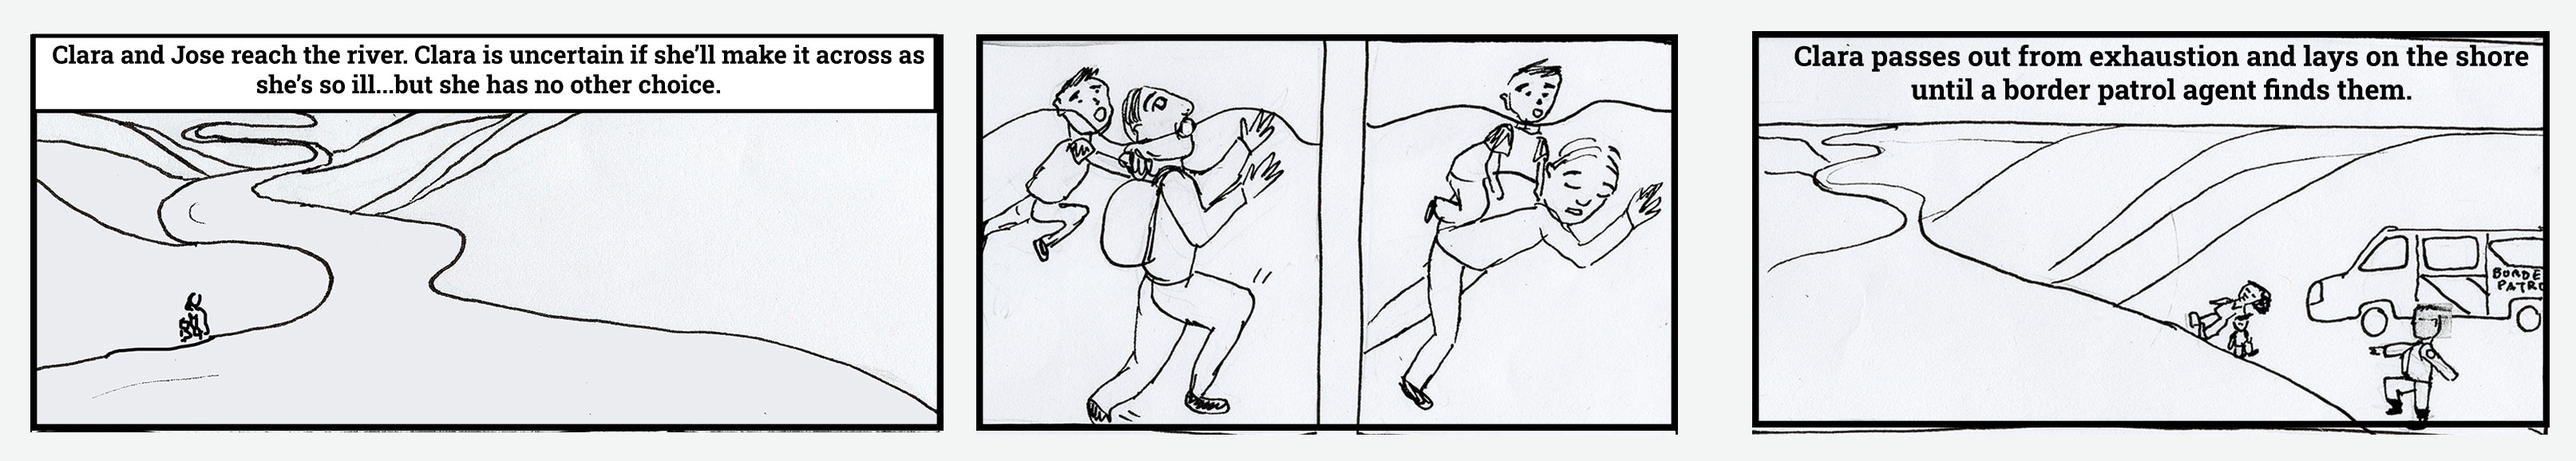
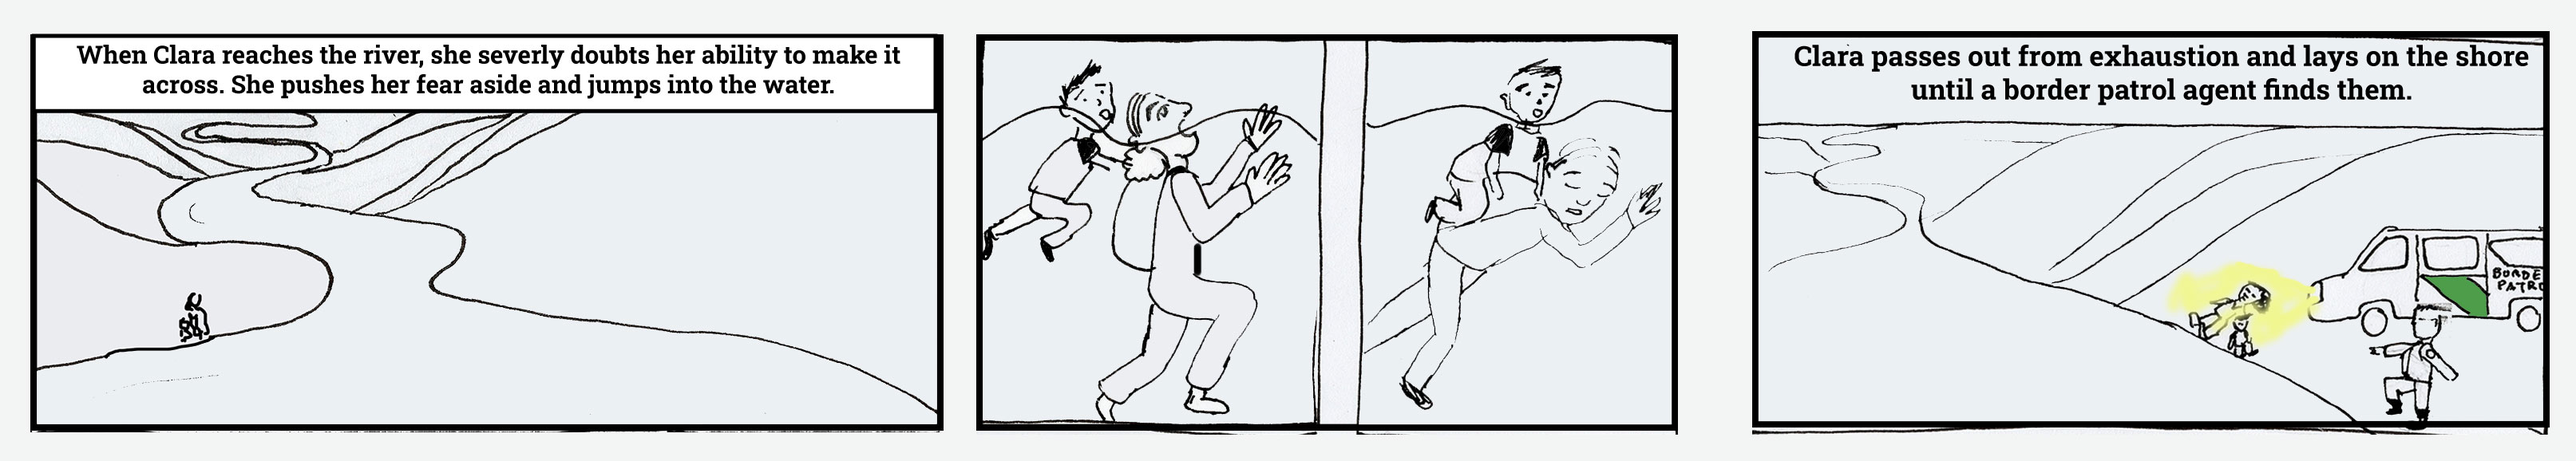
Update to Michelle

diff --git a/michelle/script.js b/michelle/script.js
@@ -15,7 +15,7 @@ var tilePadding = 10;
 var tileSize;
 var tileWrapper = 120;
 var timelineTopRatio = 0.6;
-var imageTimer = 30000;
+var imageTimer = 120000;
 
 var tileColor = "#F7F0F0";
 var tileFontColor = "#333";
@@ -55,7 +55,7 @@ function init(){
 		// Parse XML Timeline
 		parser = new DOMParser();
 		// xmlTimeline = parser.parseFromString(event.target.result,"text/xml");
-		let northbound = "<timeline><tile><id>0</id><type>static</type><name>Honduras</name><videos><video><id>112</id><path>Introduction.jpg</path></video></videos></tile><tile><id>2</id><type>static</type><name>Leave</name><videos><video><id>90</id><path>Leave-min.jpg</path></video></videos></tile><tile><id>3</id><type>choice</type><name>Choice 1</name><choices><choice><name>Caravan</name><iconPath>caravan.png</iconPath><choiceID>3</choiceID><choiceChosen>4</choiceChosen><videos><video><id>125</id><path>Choice1--Caravan.jpg</path></video></videos></choice><choice><name>Alone</name><iconPath>alone-black-version.jpg</iconPath><choiceID>3</choiceID><choiceChosen>5</choiceChosen><videos><video><id>124</id><path>Choice1-Alone.jpg</path></video></videos></choice></choices></tile><tile><id>6</id><type>static</type><name>Travel</name><videos><video><id>91</id><path>Travel-(alone)-min.jpg</path><condition><choiceID>3</choiceID><choiceChosen>5</choiceChosen></condition></video><video><id>127</id><path>Travel(caravan)-min.jpg</path><condition><choiceID>3</choiceID><choiceChosen>4</choiceChosen></condition></video></videos></tile><tile><id>7</id><type>static</type><name>Ill</name><videos><video><id>92</id><path>Sick-(alone)-min.jpg</path><condition><choiceID>3</choiceID><choiceChosen>5</choiceChosen></condition></video><video><id>93</id><path>Sick-(caravan)-min.jpg</path><condition><choiceID>3</choiceID><choiceChosen>4</choiceChosen></condition></video></videos></tile><tile><id>8</id><type>choice</type><name>Choice  2</name><choices><choice><name>Continue</name><iconPath>continue.png</iconPath><choiceID>8</choiceID><choiceChosen>9</choiceChosen><videos><video><id>27</id><path>Choice2--Continue-(caravan)jpg-min.jpg</path></video></videos></choice><choice><name>Rest</name><iconPath>rest.png</iconPath><choiceID>8</choiceID><choiceChosen>10</choiceChosen><videos><video><id>28</id><path>Choice2-Rest(alone(-min.jpg</path></video></videos></choice></choices></tile><tile><id>11</id><type>static</type><name>The Plan</name><videos><video><id>94</id><path>The-Plan-(alone-continue)-min.jpg</path><condition><choiceID>3</choiceID><choiceChosen>5</choiceChosen></condition><condition><choiceID>8</choiceID><choiceChosen>9</choiceChosen></condition></video><video><id>95</id><path>The-Plan(alone-rest)-min.jpg</path><condition><choiceID>3</choiceID><choiceChosen>5</choiceChosen></condition><condition><choiceID>8</choiceID><choiceChosen>10</choiceChosen></condition></video><video><id>96</id><path>The-Plan-(caravan-continue)-min.jpg</path><condition><choiceID>3</choiceID><choiceChosen>4</choiceChosen></condition><condition><choiceID>8</choiceID><choiceChosen>9</choiceChosen></condition></video><video><id>97</id><path>The-Plan-(caravan-rest)-min.jpg</path><condition><choiceID>3</choiceID><choiceChosen>4</choiceChosen></condition><condition><choiceID>8</choiceID><choiceChosen>10</choiceChosen></condition></video></videos></tile><tile><id>16</id><type>static</type><name>River</name><videos><video><id>98</id><path>River(alone-continue)-min.jpg</path><condition><choiceID>3</choiceID><choiceChosen>5</choiceChosen></condition><condition><choiceID>8</choiceID><choiceChosen>9</choiceChosen></condition></video><video><id>99</id><path>River-(alone-rest)-min.jpg</path><condition><choiceID>3</choiceID><choiceChosen>5</choiceChosen></condition><condition><choiceID>8</choiceID><choiceChosen>10</choiceChosen></condition></video><video><id>100</id><path>River-(caravan-continue)-min.jpg</path><condition><choiceID>3</choiceID><choiceChosen>4</choiceChosen></condition><condition><choiceID>8</choiceID><choiceChosen>9</choiceChosen></condition></video><video><id>101</id><path>River-(caravan-rest)-min.jpg</path><condition><choiceID>3</choiceID><choiceChosen>4</choiceChosen></condition><condition><choiceID>8</choiceID><choiceChosen>10</choiceChosen></condition></video></videos></tile><tile><id>18</id><type>static</type><name>Border</name><videos><video><id>123</id><path>Zero Tolerance.jpg</path><condition><choiceID>3</choiceID><choiceChosen>4</choiceChosen></condition><condition><choiceID>8</choiceID><choiceChosen>10</choiceChosen></condition></video><video><id>124</id><path>Zero Tolerance.jpg</path><condition><choiceID>3</choiceID><choiceChosen>5</choiceChosen></condition><condition><choiceID>8</choiceID><choiceChosen>10</choiceChosen></condition></video><video><id>130</id><path>sick-in-usa-min.jpg</path><condition><choiceID>3</choiceID><choiceChosen>5</choiceChosen></condition><condition><choiceID>8</choiceID><choiceChosen>9</choiceChosen></condition></video><video><id>131</id><path>See-Lights-min.jpg</path><condition><choiceID>3</choiceID><choiceChosen>4</choiceChosen></condition><condition><choiceID>8</choiceID><choiceChosen>9</choiceChosen></condition></video></videos></tile><tile><id>17</id><type>choice</type><name>Choice 3</name><choices><choice><name>Myself</name><iconPath>alone.png</iconPath><choiceID>17</choiceID><choiceChosen>19</choiceChosen><videos><video><id>128</id><path>Choice3-alone-min.jpg</path></video></videos></choice><choice><name>Others</name><iconPath>Choice-3-Group.png</iconPath><choiceID>17</choiceID><choiceChosen>20</choiceChosen><videos><video><id>129</id><path>Choice3-together-min.jpg</path></video></videos></choice></choices></tile><tile><id>21</id><type>static</type><name>Aftermath</name><videos><video><id>131</id><path>Aftermath-Ending1.png</path><condition><choiceID>3</choiceID><choiceChosen>4</choiceChosen></condition><condition><choiceID>8</choiceID><choiceChosen>9</choiceChosen></condition><condition><choiceID>17</choiceID><choiceChosen>19</choiceChosen></condition></video><video><id>132</id><path>Aftermath-Ending2.jpg</path><condition><choiceID>3</choiceID><choiceChosen>4</choiceChosen></condition><condition><choiceID>8</choiceID><choiceChosen>9</choiceChosen></condition><condition><choiceID>17</choiceID><choiceChosen>20</choiceChosen></condition></video><video><id>133</id><path>Aftermath-Ending 3 and 7.png</path><condition><choiceID>3</choiceID><choiceChosen>4</choiceChosen></condition><condition><choiceID>8</choiceID><choiceChosen>10</choiceChosen></condition><condition><choiceID>17</choiceID><choiceChosen>19</choiceChosen></condition></video><video><id>134</id><path>Aftermath-Ending 3 and 7.png</path><condition><choiceID>3</choiceID><choiceChosen>5</choiceChosen></condition><condition><choiceID>8</choiceID><choiceChosen>10</choiceChosen></condition><condition><choiceID>17</choiceID><choiceChosen>19</choiceChosen></condition></video><video><id>135</id><path>Aftermath-Ending4.jpg</path><condition><choiceID>3</choiceID><choiceChosen>4</choiceChosen></condition><condition><choiceID>8</choiceID><choiceChosen>10</choiceChosen></condition><condition><choiceID>17</choiceID><choiceChosen>20</choiceChosen></condition></video><video><id>136</id><path>Aftermath-Ending5.jpg</path><condition><choiceID>3</choiceID><choiceChosen>5</choiceChosen></condition><condition><choiceID>8</choiceID><choiceChosen>9</choiceChosen></condition><condition><choiceID>17</choiceID><choiceChosen>19</choiceChosen></condition></video><video><id>137</id><path>Aftermath-Ending6.jpg</path><condition><choiceID>3</choiceID><choiceChosen>5</choiceChosen></condition><condition><choiceID>8</choiceID><choiceChosen>9</choiceChosen></condition><condition><choiceID>17</choiceID><choiceChosen>20</choiceChosen></condition></video><video><id>138</id><path>Aftermath-Ending8.jpg</path><condition><choiceID>3</choiceID><choiceChosen>5</choiceChosen></condition><condition><choiceID>8</choiceID><choiceChosen>10</choiceChosen></condition><condition><choiceID>17</choiceID><choiceChosen>20</choiceChosen></condition></video></videos></tile><tile><id>24</id><type>static</type><name>Ending</name><videos><video><id>113</id><path>Ending-1-min.jpg</path><condition><choiceID>3</choiceID><choiceChosen>4</choiceChosen></condition><condition><choiceID>8</choiceID><choiceChosen>9</choiceChosen></condition><condition><choiceID>17</choiceID><choiceChosen>19</choiceChosen></condition></video><video><id>114</id><path>Ending2-min.jpg</path><condition><choiceID>3</choiceID><choiceChosen>4</choiceChosen></condition><condition><choiceID>8</choiceID><choiceChosen>9</choiceChosen></condition><condition><choiceID>17</choiceID><choiceChosen>20</choiceChosen></condition></video><video><id>115</id><path>Ending3-min.jpg</path><condition><choiceID>3</choiceID><choiceChosen>4</choiceChosen></condition><condition><choiceID>8</choiceID><choiceChosen>10</choiceChosen></condition><condition><choiceID>17</choiceID><choiceChosen>19</choiceChosen></condition></video><video><id>116</id><path>Ending4-min.jpg</path><condition><choiceID>3</choiceID><choiceChosen>4</choiceChosen></condition><condition><choiceID>8</choiceID><choiceChosen>10</choiceChosen></condition><condition><choiceID>17</choiceID><choiceChosen>20</choiceChosen></condition></video><video><id>117</id><path>Ending5-min.jpg</path><condition><choiceID>3</choiceID><choiceChosen>5</choiceChosen></condition><condition><choiceID>8</choiceID><choiceChosen>9</choiceChosen></condition><condition><choiceID>17</choiceID><choiceChosen>19</choiceChosen></condition></video><video><id>118</id><path>Ending7-min.jpg</path><condition><choiceID>3</choiceID><choiceChosen>5</choiceChosen></condition><condition><choiceID>8</choiceID><choiceChosen>10</choiceChosen></condition><condition><choiceID>17</choiceID><choiceChosen>19</choiceChosen></condition></video><video><id>119</id><path>Ending8-min.jpg</path><condition><choiceID>3</choiceID><choiceChosen>5</choiceChosen></condition><condition><choiceID>8</choiceID><choiceChosen>10</choiceChosen></condition><condition><choiceID>17</choiceID><choiceChosen>20</choiceChosen></condition></video><video><id>120</id><path>Ending6.jpg</path><condition><choiceID>3</choiceID><choiceChosen>5</choiceChosen></condition><condition><choiceID>8</choiceID><choiceChosen>9</choiceChosen></condition><condition><choiceID>17</choiceID><choiceChosen>20</choiceChosen></condition></video></videos></tile></timeline>";
+		let northbound = "<timeline><tile><id>0</id><type>static</type><name>Honduras</name><videos><video><id>1</id><path>Introduction-min.jpg</path></video></videos></tile><tile><id>3</id><type>static</type><name>Leave</name><videos><video><id>3</id><path>Leave-min.jpg</path></video></videos></tile><tile><id>5</id><type>choice</type><name>Choice1</name><choices><choice><name>Alone</name><iconPath>Icon-Choice1-Alone.png</iconPath><choiceID>5</choiceID><choiceChosen>6</choiceChosen><videos><video><id>7</id><path>Choice1-Alone-min.jpg</path></video></videos></choice><choice><name>Caravan</name><iconPath>Icon-Choice1-Caravan.png</iconPath><choiceID>5</choiceID><choiceChosen>7</choiceChosen><videos><video><id>8</id><path>Choice1--Caravan-min.jpg</path></video></videos></choice></choices></tile><tile><id>10</id><type>static</type><name>Travel</name><videos><video><id>10</id><path>Travel-(alone)-min.jpg</path><condition><choiceID>5</choiceID><choiceChosen>6</choiceChosen></condition></video><video><id>11</id><path>Travel(caravan)-min.jpg</path><condition><choiceID>5</choiceID><choiceChosen>7</choiceChosen></condition></video></videos></tile><tile><id>13</id><type>static</type><name>Ill</name><videos><video><id>13</id><path>Sick-(alone)-min.jpg</path><condition><choiceID>5</choiceID><choiceChosen>6</choiceChosen></condition></video><video><id>14</id><path>Sick-(caravan)-min.jpg</path><condition><choiceID>5</choiceID><choiceChosen>7</choiceChosen></condition></video></videos></tile><tile><id>16</id><type>choice</type><name>Choice2</name><choices><choice><name>Continue</name><iconPath>Icon-Choice2-Continue.png</iconPath><choiceID>16</choiceID><choiceChosen>17</choiceChosen><videos><video><id>25</id><path>Choice2-Continue.jpg</path></video></videos></choice><choice><name>Rest</name><iconPath>Icon-Choice2-Rest.png</iconPath><choiceID>16</choiceID><choiceChosen>18</choiceChosen><videos><video><id>26</id><path>Choice2-Rest.jpg</path></video></videos></choice></choices></tile><tile><id>21</id><type>static</type><name>The Plan</name><videos><video><id>21</id><path>The-Plan-(alone-continue)-min.jpg</path><condition><choiceID>5</choiceID><choiceChosen>6</choiceChosen></condition><condition><choiceID>16</choiceID><choiceChosen>17</choiceChosen></condition></video><video><id>22</id><path>The-Plan(alone-rest)-min.jpg</path><condition><choiceID>5</choiceID><choiceChosen>6</choiceChosen></condition><condition><choiceID>16</choiceID><choiceChosen>18</choiceChosen></condition></video><video><id>23</id><path>The-Plan-(caravan-continue)-min.jpg</path><condition><choiceID>5</choiceID><choiceChosen>7</choiceChosen></condition><condition><choiceID>16</choiceID><choiceChosen>17</choiceChosen></condition></video><video><id>24</id><path>The-Plan-(caravan-rest)-min.jpg</path><condition><choiceID>5</choiceID><choiceChosen>7</choiceChosen></condition><condition><choiceID>16</choiceID><choiceChosen>18</choiceChosen></condition></video></videos></tile><tile><id>29</id><type>static</type><name>River</name><videos><video><id>29</id><path>River(alone-continue)-min.jpg</path><condition><choiceID>5</choiceID><choiceChosen>6</choiceChosen></condition><condition><choiceID>16</choiceID><choiceChosen>17</choiceChosen></condition></video><video><id>30</id><path>River-(alone-rest)-min.jpg</path><condition><choiceID>5</choiceID><choiceChosen>6</choiceChosen></condition><condition><choiceID>16</choiceID><choiceChosen>18</choiceChosen></condition></video><video><id>31</id><path>River-(caravan-continue)-min.jpg</path><condition><choiceID>5</choiceID><choiceChosen>7</choiceChosen></condition><condition><choiceID>16</choiceID><choiceChosen>17</choiceChosen></condition></video><video><id>32</id><path>River-(caravan-rest)-min.jpg</path><condition><choiceID>5</choiceID><choiceChosen>7</choiceChosen></condition><condition><choiceID>16</choiceID><choiceChosen>18</choiceChosen></condition></video></videos></tile><tile><id>28</id><type>static</type><name>Border</name><videos><video><id>33</id><path>Border(alone-continue)-min.jpg</path><condition><choiceID>5</choiceID><choiceChosen>6</choiceChosen></condition><condition><choiceID>16</choiceID><choiceChosen>17</choiceChosen></condition></video><video><id>34</id><path>Border(caravan-continue)-min.jpg</path><condition><choiceID>5</choiceID><choiceChosen>7</choiceChosen></condition><condition><choiceID>16</choiceID><choiceChosen>17</choiceChosen></condition></video><video><id>35</id><path>Border(caravan-rest)-min.jpg</path><condition><choiceID>5</choiceID><choiceChosen>7</choiceChosen></condition><condition><choiceID>16</choiceID><choiceChosen>18</choiceChosen></condition></video><video><id>36</id><path>Border(caravan-rest)-min.jpg</path><condition><choiceID>5</choiceID><choiceChosen>6</choiceChosen></condition><condition><choiceID>16</choiceID><choiceChosen>18</choiceChosen></condition></video></videos></tile><tile><id>38</id><type>choice</type><name>Choice3</name><choices><choice><name>Self</name><iconPath>Icon-Choice3-Self.png</iconPath><choiceID>38</choiceID><choiceChosen>39</choiceChosen><videos><video><id>41</id><path>Choice3-Self-min.jpg</path></video></videos></choice><choice><name>Others</name><iconPath>Icon-Choice3-Others.jpg</iconPath><choiceID>38</choiceID><choiceChosen>40</choiceChosen><videos><video><id>40</id><path>Choice3-Others-min.jpg</path></video></videos></choice></choices></tile><tile><id>43</id><type>static</type><name>Aftermath</name><videos><video><id>43</id><path>Aftermath(alone-continue-others)-min.jpg</path><condition><choiceID>5</choiceID><choiceChosen>6</choiceChosen></condition><condition><choiceID>16</choiceID><choiceChosen>17</choiceChosen></condition><condition><choiceID>38</choiceID><choiceChosen>40</choiceChosen></condition></video><video><id>44</id><path>Aftermath(alone-continue-self)-min.jpg</path><condition><choiceID>5</choiceID><choiceChosen>6</choiceChosen></condition><condition><choiceID>16</choiceID><choiceChosen>17</choiceChosen></condition><condition><choiceID>38</choiceID><choiceChosen>39</choiceChosen></condition></video><video><id>45</id><path>Aftermath(alone-rest-self)-min.jpg</path><condition><choiceID>5</choiceID><choiceChosen>6</choiceChosen></condition><condition><choiceID>16</choiceID><choiceChosen>18</choiceChosen></condition><condition><choiceID>38</choiceID><choiceChosen>39</choiceChosen></condition></video><video><id>46</id><path>Aftermath(alone-rest-together)-min.jpg</path><condition><choiceID>5</choiceID><choiceChosen>6</choiceChosen></condition><condition><choiceID>16</choiceID><choiceChosen>18</choiceChosen></condition><condition><choiceID>38</choiceID><choiceChosen>40</choiceChosen></condition></video><video><id>47</id><path>Aftermath(caravan-continue-others)-min.jpg</path><condition><choiceID>5</choiceID><choiceChosen>7</choiceChosen></condition><condition><choiceID>16</choiceID><choiceChosen>17</choiceChosen></condition><condition><choiceID>38</choiceID><choiceChosen>40</choiceChosen></condition></video><video><id>48</id><path>Aftermath-(caravan-continue-self)-min.jpg</path><condition><choiceID>5</choiceID><choiceChosen>7</choiceChosen></condition><condition><choiceID>16</choiceID><choiceChosen>17</choiceChosen></condition><condition><choiceID>38</choiceID><choiceChosen>39</choiceChosen></condition></video><video><id>49</id><path>Aftermath(caravan-rest-self)-min.jpg</path><condition><choiceID>5</choiceID><choiceChosen>7</choiceChosen></condition><condition><choiceID>16</choiceID><choiceChosen>18</choiceChosen></condition><condition><choiceID>38</choiceID><choiceChosen>39</choiceChosen></condition></video><video><id>50</id><path>Aftermath(caravan-rest-together)-min.jpg</path><condition><choiceID>5</choiceID><choiceChosen>7</choiceChosen></condition><condition><choiceID>16</choiceID><choiceChosen>18</choiceChosen></condition><condition><choiceID>38</choiceID><choiceChosen>40</choiceChosen></condition></video></videos></tile><tile><id>52</id><type>static</type><name>Ending</name><videos><video><id>52</id><path>Ending-1-min.jpg</path><condition><choiceID>5</choiceID><choiceChosen>7</choiceChosen></condition><condition><choiceID>16</choiceID><choiceChosen>17</choiceChosen></condition><condition><choiceID>38</choiceID><choiceChosen>39</choiceChosen></condition></video><video><id>53</id><path>Ending-2-min.jpg</path><condition><choiceID>5</choiceID><choiceChosen>7</choiceChosen></condition><condition><choiceID>16</choiceID><choiceChosen>17</choiceChosen></condition><condition><choiceID>38</choiceID><choiceChosen>40</choiceChosen></condition></video><video><id>54</id><path>Ending-3-min.jpg</path><condition><choiceID>5</choiceID><choiceChosen>7</choiceChosen></condition><condition><choiceID>16</choiceID><choiceChosen>18</choiceChosen></condition><condition><choiceID>38</choiceID><choiceChosen>39</choiceChosen></condition></video><video><id>55</id><path>Ending-4-min.jpg</path><condition><choiceID>5</choiceID><choiceChosen>7</choiceChosen></condition><condition><choiceID>16</choiceID><choiceChosen>18</choiceChosen></condition><condition><choiceID>38</choiceID><choiceChosen>40</choiceChosen></condition></video><video><id>56</id><path>Ending-5-min.jpg</path><condition><choiceID>5</choiceID><choiceChosen>6</choiceChosen></condition><condition><choiceID>16</choiceID><choiceChosen>17</choiceChosen></condition><condition><choiceID>38</choiceID><choiceChosen>39</choiceChosen></condition></video><video><id>57</id><path>Ending-6-min.jpg</path><condition><choiceID>5</choiceID><choiceChosen>6</choiceChosen></condition><condition><choiceID>16</choiceID><choiceChosen>17</choiceChosen></condition><condition><choiceID>38</choiceID><choiceChosen>40</choiceChosen></condition></video><video><id>58</id><path>Ending-7-min.jpg</path><condition><choiceID>5</choiceID><choiceChosen>6</choiceChosen></condition><condition><choiceID>16</choiceID><choiceChosen>18</choiceChosen></condition><condition><choiceID>38</choiceID><choiceChosen>39</choiceChosen></condition></video><video><id>59</id><path>Ending-8-min.jpg</path><condition><choiceID>5</choiceID><choiceChosen>6</choiceChosen></condition><condition><choiceID>16</choiceID><choiceChosen>18</choiceChosen></condition><condition><choiceID>38</choiceID><choiceChosen>40</choiceChosen></condition></video></videos></tile></timeline>";
 		xmlTimeline = parser.parseFromString(northbound,"text/xml");
 
 		console.log(xmlTimeline); 
@@ -63,7 +63,7 @@ function init(){
 		// Preload images from timeline; once done, drawTimeline()				
 		preloadImages(xmlTimeline, function (){
 			drawTimeline(xmlTimeline);	
-			drawPlayStopButton();		
+			// drawPlayStopButton();		
 			drawPlayhead();			
 		});		
 	// });	

diff --git a/michelle/index.html b/michelle/index.html
@@ -31,17 +31,18 @@
 			    text-decoration: none;
 			    font-size: 1.2em; 
 			}
-			#instructions span {
+			#instructions div {
 				margin-left: 25px;
 				padding-left: 25px;
-				font-size: 1.2em; 
+				font-size: 1em; 
+				width: 800px;
 			    color: #fff;  			    			   
 			    text-decoration: none;
 			}
 			
 			.media {
 				max-width: 100%;
-				height: 360px;
+				height: 480px;
 				margin-left: auto;
 				margin-right: auto;
 				
@@ -52,7 +53,7 @@
 			}			
 			.mediaContainer {
 				width: 100%;
-				height: 360px;
+				height: 480px;
 				background-color: #111;
 				box-shadow: 0 0px 180px 0 rgba(0, 0, 0, 0.5), 0 0px 20px 0 rgba(0, 0, 0, 0.5);
 			}
@@ -80,7 +81,8 @@
 		<div id="instructions">
 			<div id="title">Northbound</div>
 			<!-- <label for="file-selector" class="fileSelector">Choose a file</label> -->
-			<span style="border-left: solid #eee 2px;">Doubleclick to navigate between tiles.</span>
+			<div style="border-left: solid #eee 2px;">A multi-sequential story about Clara, a young Honduran mother migrating to the United States. Double-click to navigate between tiles, and make crucial decisions by sliding two-column tiles up or down.</div>
+
 		</div>
 		
 		<div class="mediaContainer">
